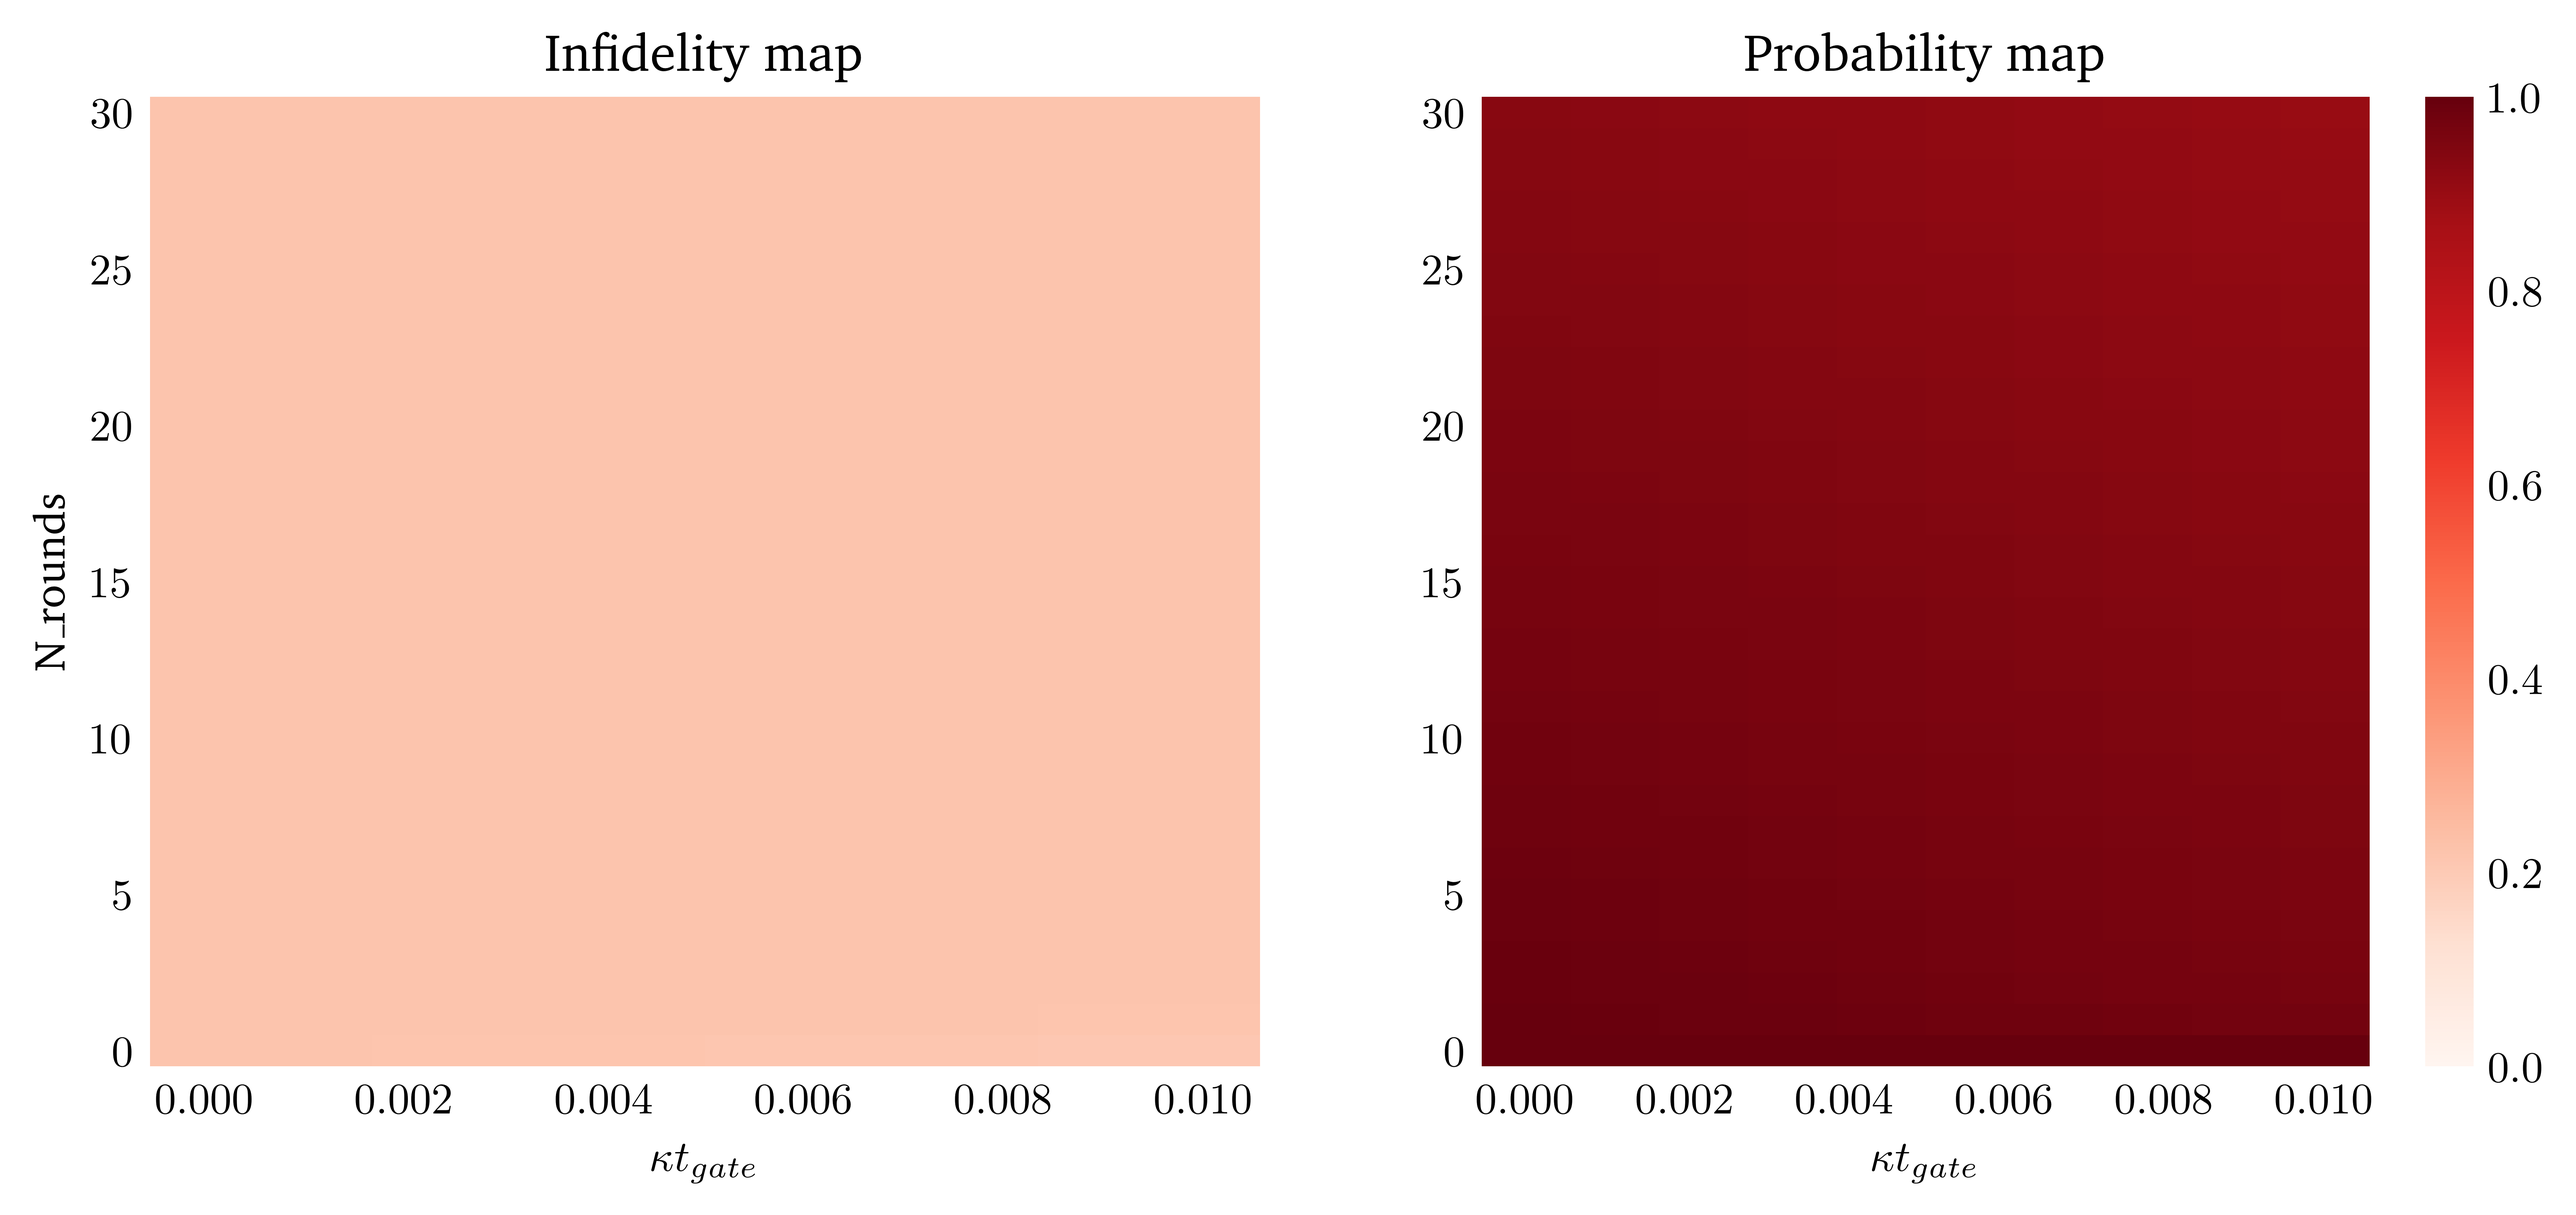
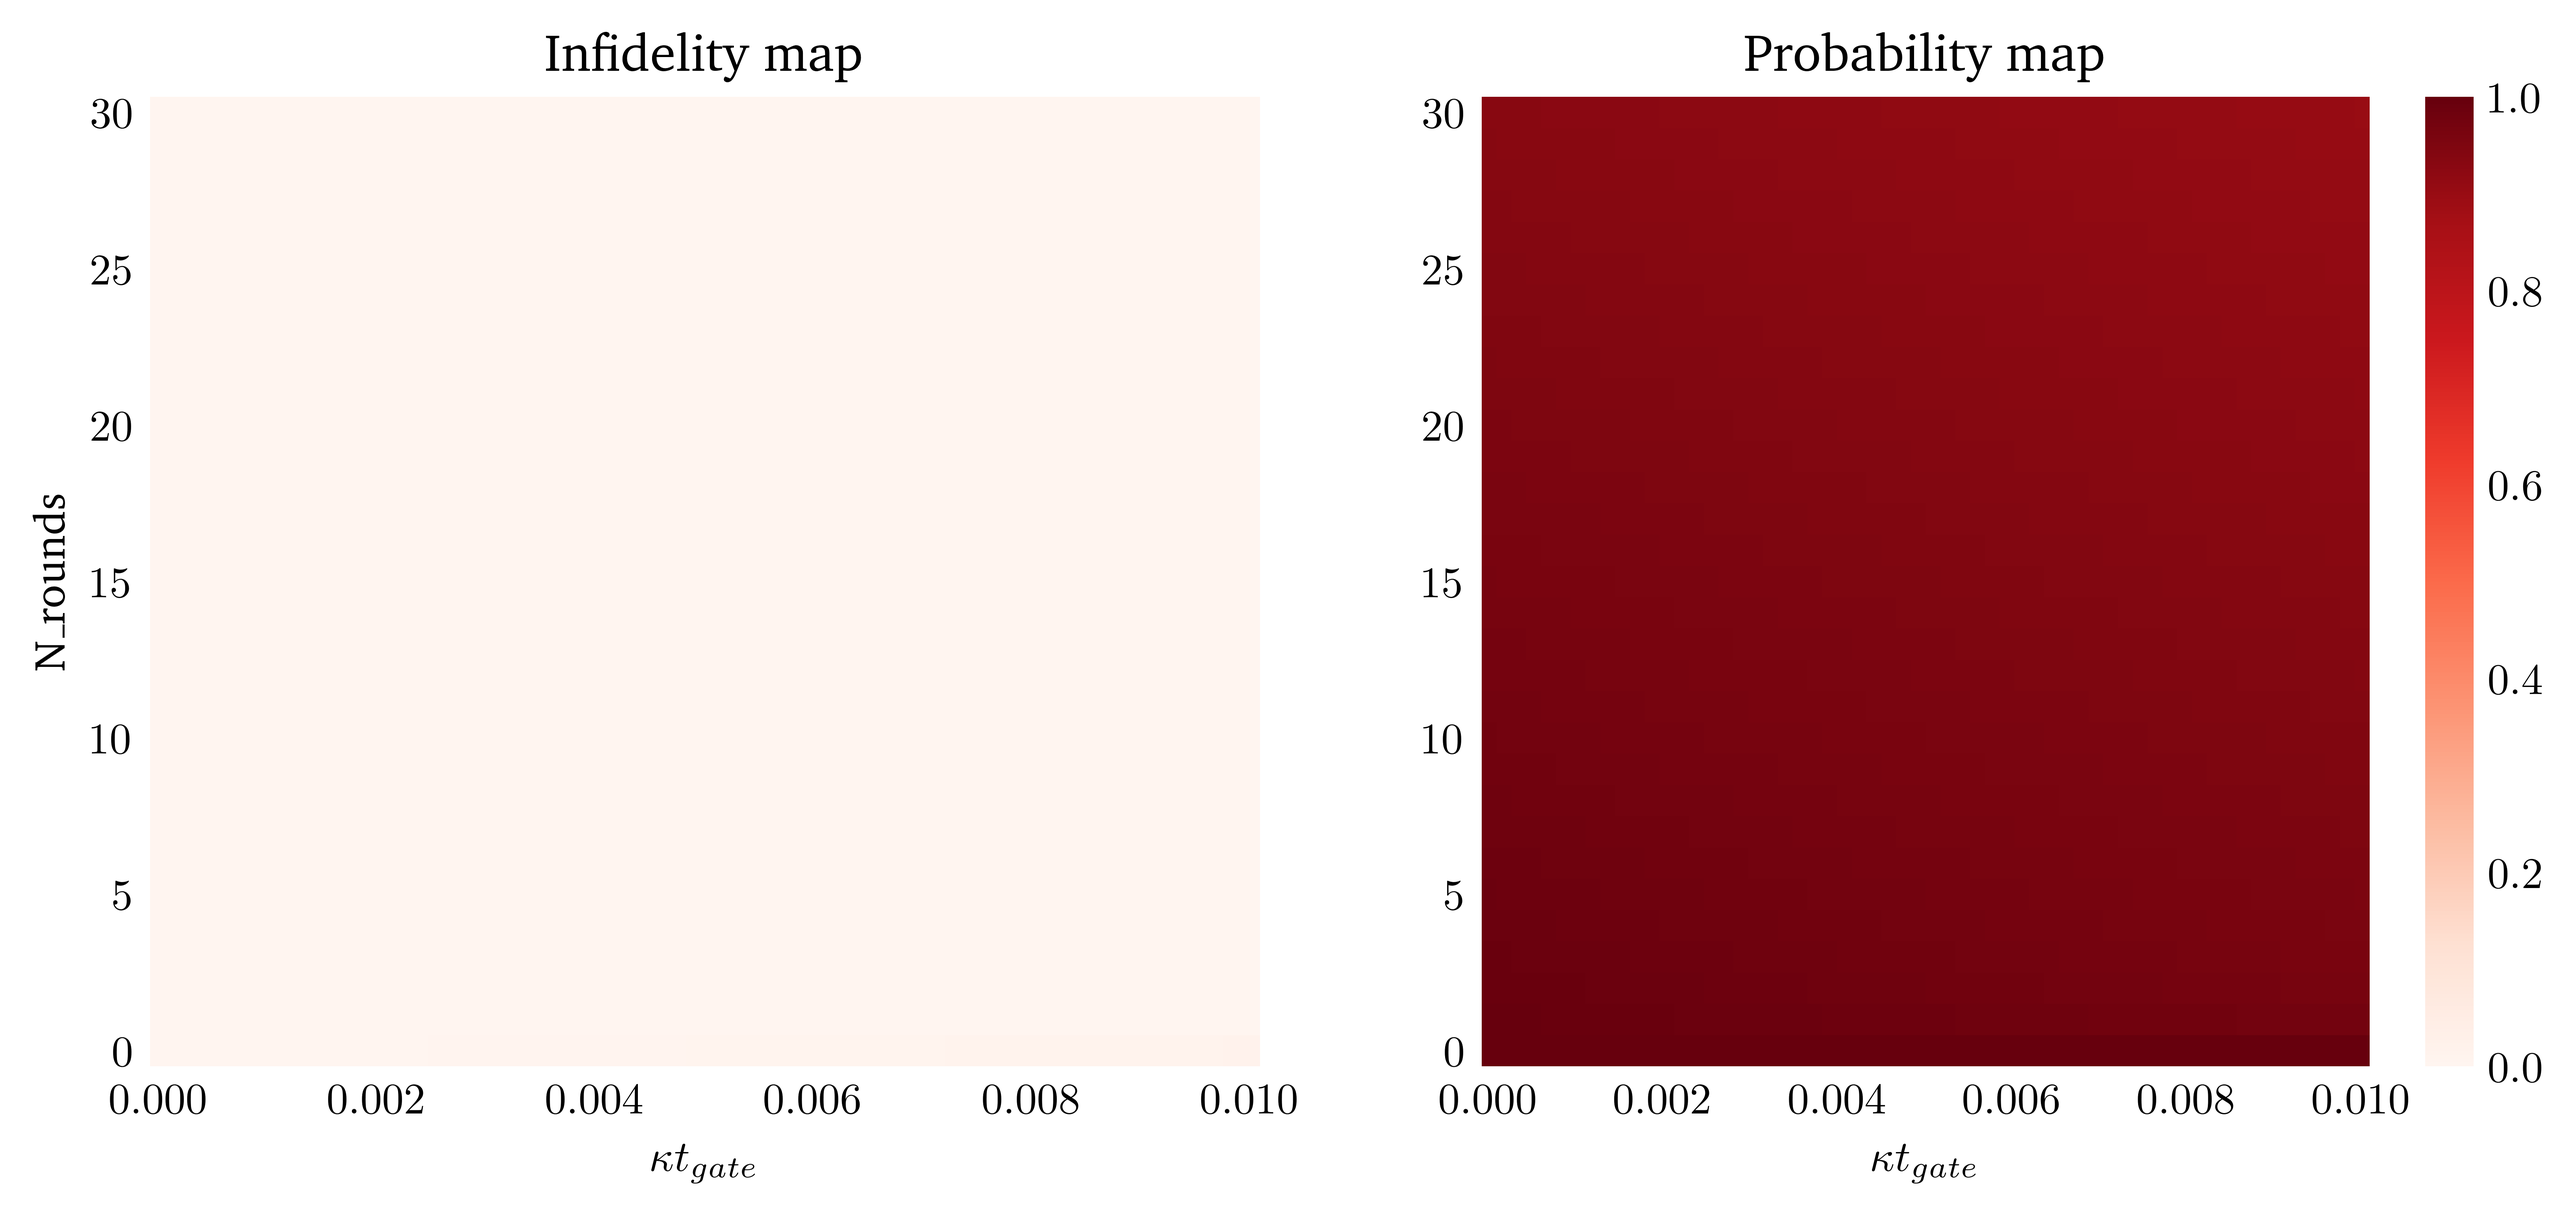
lastgraph

diff --git a/stage_baptiste/projects/Kraus_codes/color_maps/colors_maps_analysis.py b/stage_baptiste/projects/Kraus_codes/color_maps/colors_maps_analysis.py
@@ -7,6 +7,7 @@ for states we want to study under error correction.
 
 import numpy as np
 from numpy import sqrt
+from matplotlib import ticker
 from scipy.constants import pi
 from qutip import *
 from stage_baptiste.homemades.finite_GKP import GKP, KrausGKP
@@ -22,12 +23,15 @@ a = destroy(hilbert_dim)
 N_op = a.dag()*a
 
 kGKP_obj = KrausGKP(d,j,delta,hilbert_dim)
+# GKP_obj = GKP(d,j,delta,hilbert_dim)
 H = N_op**2
-tgate = pi/8
-max_error_rate = 0.01
-max_N_rounds = 30
+tgate = pi/16
+max_error_rate1 = 0.01
+kap_num1 = 20
+rate_list1 = np.linspace(0,max_error_rate1,kap_num1)
+max_N_rounds1 = 16
 
-fig_name = "ks_sqrtH_avg_cmap_mapped"  # actuellement tests de gg
+fig_name1 = "half_vs_2halfs"  # actuellement tests de gg
 tr_fig_name = "ks_sqrtH_avg_traces_mapped"
 fig_path = f"/Users/jeremie/Desktop/Stage_Baptiste/stage_baptiste/projects/Kraus_codes/color_maps/figs/direct_gate/"
 ground = basis(2,0)
@@ -48,19 +52,20 @@ c3 = alpha_0/sqrt(6) + gamma_0/2
 perf_pi_o_s = 1/2*(c0*GKP(d,0,delta,hilbert_dim).state+c1*GKP(d,1,delta,hilbert_dim).state+c2*GKP(d,2,delta,hilbert_dim).state+c3*GKP(d,3,delta,hilbert_dim).state)
 # rho_ref = ket2dm(perf_pi_o_s)
 options = Options(nsteps=2000)
-rho_ref = mesolve(-H, kGKP_obj.state, np.linspace(0, pi/8, 10), [], [], options=options).states[-1]
+rho_ref = mesolve(-H, kGKP_obj.state, np.linspace(0, pi/16, 10), [], [], options=options).states[-1]
 # bqr in not useful in the calculation
-fid_arr,prob_arr,last_state,params = get_fid_n_prob_data(kGKP_obj, H, tgate, max_error_rate, max_N_rounds,
-                                              kap_num=10, mode='gg',reference_state=rho_ref,qubit_mapping=True,bqr=bqr,pi_o_s=False)
-plot_cmaps(fid_arr,prob_arr,*params,
-           mode='gg',fig_path=fig_path,halfs_only=False,
-           fig_name=fig_name,save=True,show=False)
+fid_arr1,prob_arr1,last_state,params = get_fid_n_prob_data(kGKP_obj, H, tgate, max_error_rate1, max_N_rounds1,
+                                              kap_num=kap_num1, mode='gg',reference_state=perf_pi_o_s,qubit_mapping=True,bqr=bqr,pi_o_s=True)
+print(len(fid_arr1))
+# plot_cmaps(fid_arr,prob_arr,*params,
+#            mode='gg',fig_path=fig_path,halfs_only=False,
+#            fig_name=fig_name,save=True,show=False)
 
-plot_fid_traces(fid_arr,*params,traces_ix=[[0,2,4,6,8],[2,4,6,8]],halfs_only=False,
-                fig_path=fig_path,traces_fig_name=tr_fig_name,save=True,show=False)
+# plot_fid_traces(fid_arr,*params,traces_ix=[[2,4,6,8],[2,4,6,8]],halfs_only=False,
+#                 fig_path=fig_path,traces_fig_name=tr_fig_name,save=True,show=False)
+#
 
-
-"""# error correcting procedure in two steps
+# error correcting procedure in two steps
 d = 2
 j = 0
 delta = 0.15
@@ -70,14 +75,14 @@ N_op = a.dag()*a
 
 kGKP_obj = KrausGKP(d,j,delta,hilbert_dim)
 H = N_op**2
-tgate = pi/16
-max_error_rate = 0.01
-max_N_rounds = 30
-kap_num = 10
-kap_max = max_error_rate/tgate
-kap_list = np.linspace(0,kap_max,kap_num)
-rate_list = np.linspace(0,max_error_rate,kap_num)
-N_rounds = np.arange(0,max_N_rounds,1)
+tgate2 = pi/16
+max_error_rate2 = 0.01
+max_N_rounds2 = 16
+kap_num2 = 20
+kap_max2 = max_error_rate2/tgate2
+kap_list2 = np.linspace(0,kap_max2,kap_num2)
+rate_list2 = np.linspace(0,max_error_rate2,kap_num2)
+N_rounds2 = np.arange(0,max_N_rounds2,1)
 
 fig_path = f"/Users/jeremie/Desktop/Stage_Baptiste/stage_baptiste/projects/Kraus_codes/color_maps/figs/two_half_gate/"
 ground = basis(2,0)
@@ -105,28 +110,28 @@ rho_ref = mesolve(-H, kGKP_obj.state, np.linspace(0, pi/8, 10), [], [], options=
 middle_rounds = 8
 fig_name = f"split_{middle_rounds}mr_ks_avg_cmap_mapped"
 tr_fig_name = f"split_{middle_rounds}mr_ks_avg_traces_mapped"
-fid_arr,prob_arr,final_states,params = get_fid_n_prob_data(kGKP_obj, H, tgate, max_error_rate, middle_rounds,
-                                              kap_num=10, mode='gg',reference_state=rho_ref,qubit_mapping=False,bqr=bqr,pi_o_s=True)
+fid_arr,prob_arr,final_states,params = get_fid_n_prob_data(kGKP_obj, H, tgate2, max_error_rate2, middle_rounds,
+                                              kap_num=kap_num2, mode='gg',reference_state=rho_ref,qubit_mapping=False,bqr=bqr,pi_o_s=True)
 N_middle_rounds = np.arange(0,middle_rounds,1)
-xvec,yvec = xvec, yvec = rate_list, N_middle_rounds[:middle_rounds//2+1]
+xvec,yvec = rate_list2, N_middle_rounds[:middle_rounds//2+1]
 fid_arr = np.reshape(fid_arr, (len(xvec), len(yvec))).T
 # -------- second half --------- #
 opList = opListsBs2(kGKP_obj,pi_o_s=False)
 corrections = [opList[0][0] * opList[1][0], opList[0][0] * opList[1][1],  # [Bgg, Bge
                    opList[0][1] * opList[1][0], opList[0][1] * opList[1][1]]  # Beg, Bee]
 fidelities,probabilities = [],[]  # initializing lists
-mode = 'avg'
-for i,(final_state,kappa) in enumerate(zip(final_states,kap_list)):
+mode = 'gg'
+for i,(final_state,kappa) in enumerate(zip(final_states,kap_list2)):
     qubit_mapping = False
     prob = fid_arr[:,i][-1]  # probability for final state
     rho = final_state/final_state.tr()
     fidelities.append(1 - get_fidelities(rho, rho_ref, bqr)[qubit_mapping])
     probabilities.append(prob)
     t_num = 10
-    t_list = np.linspace(0, tgate, t_num)
+    t_list = np.linspace(0, tgate2, t_num)
     final_ev = mesolve(-H, rho, t_list, [np.sqrt(kappa)*a], [], options=options).states[-1]
     # apply corrections
-    for i, n_round in enumerate(range(max_N_rounds)):
+    for i, n_round in enumerate(range(max_N_rounds2)):
         if mode == 'random':
             correction = get_correction(corrections, rho)  # get correction at random according to probabilities
             rho_prime = correction * rho * correction.dag()
@@ -144,13 +149,43 @@ for i,(final_state,kappa) in enumerate(zip(final_states,kap_list)):
             fidelities.append(1 - get_fidelities(rho, rho_ref, bqr)[qubit_mapping])
             probabilities.append(prob)
 fid_arr2, prob_arr2 = np.real(np.array(fidelities)), np.real(np.array(probabilities))
-params2 = [rate_list, N_rounds, max_N_rounds]
+params2 = [rate_list2, N_rounds2, max_N_rounds2]
 
 
-plot_cmaps(fid_arr2,prob_arr2,*params2,
-           mode=mode,fig_path=fig_path,halfs_only=True,
-           fig_name=fig_name,save=True,show=False)
+fig,axs = plt.subplots(2)
+traces_ix = [2,6,10,14]
+N_rounds1 = np.arange(0,max_N_rounds1,1)
+xvec1 = rate_list1
+yvec1 = 2*np.array(N_rounds1[:max_N_rounds1//2 + 1])
+fid_arr1_2d = np.reshape(fid_arr1, (len(xvec1), len(yvec1))).T
+verticals1 = np.array(fid_arr1_2d[:, traces_ix])
 
-plot_fid_traces(fid_arr2,*params2,traces_ix=[[0,2,4,6,8],[2,4,6,8]],halfs_only=True,
-                fig_path=fig_path,traces_fig_name=tr_fig_name,save=True,show=False)
-"""
+xvec2 = rate_list2
+yvec2 = 2*np.array(N_rounds2[:max_N_rounds2//2+1])
+fid_arr2_2d = np.reshape(fid_arr2, (len(xvec2), len(yvec2))).T
+verticals2 = np.array(fid_arr2_2d[:, traces_ix])
+v_traces1 = axs[1].plot(yvec1[1:],verticals1[1:])
+v_traces2 = axs[0].plot(yvec2[1:],verticals2[1:])
+axs[0].text(9,1.13e-1,rf"half point sBs rounds = {8}",fontsize='x-large')
+for v_trace, v_ix in zip(v_traces1, traces_ix):
+    v_trace.set(label=r"$\kappa t_{gate} = $" + f"{round(xvec[v_ix], 5)}")
+    v_trace.set(ls="--")
+for v_trace,v_ix,v1_ref in zip(v_traces2,traces_ix,v_traces1):
+    v_trace.set(label=r"$\kappa t_{gate} = $" + f"{round(xvec[v_ix], 5)}")
+    v_trace.set(color=v1_ref.get_color())
+axs[1].set_xlabel("sBs rounds")
+axs[0].set_ylabel(r"$1-F$")
+axs[1].set_ylabel(r"$1-F$")
+axs[0].set_yscale("log")
+axs[1].set_yscale("log")
+axs[0].get_yaxis().set_major_formatter(plt.FormatStrFormatter(':.3f'))
+axs[1].get_yaxis().set_major_formatter(plt.FormatStrFormatter(':.3f'))
+axs[1].sharey=axs[0]
+axs[1].legend(fontsize="x-large")
+plt.savefig(fig_name1)
+# plot_cmaps(fid_arr2,prob_arr2,*params2,
+#            mode=mode,fig_path=fig_path,halfs_only=True,
+#            fig_name=fig_name,save=True,show=False)
+
+# plot_fid_traces(fid_arr2,*params2,traces_ix=[[0,2,4,6,8],[2,4,6,8]],halfs_only=True,
+#                 fig_path=fig_path,traces_fig_name=tr_fig_name,save=True,show=False)

diff --git a/stage_baptiste/homemades/KrausOperator_JV.py b/stage_baptiste/homemades/KrausOperator_JV.py
@@ -288,13 +288,12 @@ def get_fid_n_prob_data(GKP_obj,H,t_gate,max_error_rate,max_N_rounds,t_num=10,ka
     opList = opListsBs2(the_GKP,pi_o_s=pi_o_s)
     corrections = [opList[0][0] * opList[1][0], opList[0][0] * opList[1][1],  # [Bgg, Bge
                    opList[0][1] * opList[1][0], opList[0][1] * opList[1][1]]  # Beg, Bee]
-    fidelities,probabilities,final_states = [],[],[] # initializing lists
+    fidelities,probabilities,final_states = [],[],[]  # initializing lists
     # correcting errors under sBs protocol
     for e_state in e_states:
         rho = e_state/e_state.tr()  # uncorrected state
         prob = 1  # probability of getting that state (neglecting randomness in c_op evolution if there is any) ***
         fidelities.append(1-get_fidelities(rho,fid_rho,bqr)[qubit_mapping])
-        print(fidelities)
         probabilities.append(prob)
         for i,n_round in enumerate(range(max_N_rounds)):
             if mode == 'random':
@@ -464,6 +463,8 @@ def plot_fid_traces(fid_arr,*params,traces_ix=[[8,10,12,14],[2,4,6,8]],halfs_onl
     axs[1].set_title("Vertical traces")
     axs[0].set_xlabel(r"$\kappa t_{gate}$")
     axs[1].set_xlabel("N_rounds")
+    axs[0].set_yscale("log")
+    axs[1].set_yscale("log")
     if halfs_only:
         axs[1].set_xlabel("N_rounds/2")
     axs[0].set_ylabel(r"$1-F$",rotation=0)
